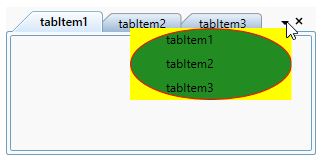
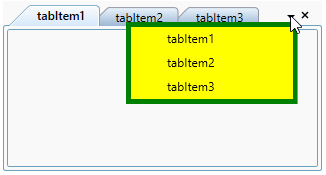
TabControlUG change and addressed the Incidents and forum fixes which are not addressed in the UG

diff --git a/wpf/TabControl/Selecting-tabitem.md b/wpf/TabControl/Selecting-tabitem.md
@@ -11,9 +11,9 @@ documentation: ug
 
 This section explains how to select tab item and selection functionalities in the [TabControl](https://help.syncfusion.com/cr/wpf/Syncfusion.Tools.Wpf~Syncfusion.Windows.Tools.Controls.TabControlExt.html).
 
-## Select tab item using mouse and key interaction
+## Select tab item using mouse or keyboard
 
-You can select a particular tab item by using the mouse click on the tab header. You also use the `Left-Arrow` and `Right-Arrow` key , to select the previous tab item or next tab item of current selected tab item. You can get the selected item by using the `SelectedItem` property. By default, the first tab item is selected.
+You can select a particular tab item by using the mouse click on the tab header. You can use the `Ctrl + Tab` key to select a next tab item when control not in focused state. You also use the `Left-Arrow` and `Right-Arrow` key , to select the previous tab item or next tab item of current selected tab item when control in focused state. You can get the selected item by using the `SelectedItem` property. By default, the first tab item is selected.
 
 N> You can select only one tab item at a time.
 
@@ -81,7 +81,37 @@ tabControlExt.IsDisableUnloadTabItemExtContent = true;
 
 N> View [Sample](https://github.com/SyncfusionExamples/syncfusion-wpf-tabcontrolext-examples/tree/master/Samples/SelectedItem) in GitHub
 
-## Change selected tab header font weight
+## Display mode of the selected tab item
+
+If you want to show tab items without its headers in the `TabControl`, use the [FullScreenMode](https://help.syncfusion.com/cr/wpf/Syncfusion.Tools.Wpf~Syncfusion.Windows.Tools.Controls.TabControlExt~FullScreenMode.html) property. If you set `FullScreenMode` property value as `ControlMode`, then it will auto hide headers and show it only on when hover the mouse on respective tab header placed area. You can also display the `TabControl` in the full window by setting the `FullScreenMode` property value as `WindowMode`. The default value of `FullScreenMode` property is `None`.
+
+{% tabs %}
+{% highlight XAML %}
+
+<syncfusion:TabControlExt FullScreenMode="ControlMode"
+                          TabStripPlacement="Bottom"
+                          Name="tabControlExt">
+    <syncfusion:TabItemExt Header="tabItem1" />
+    <syncfusion:TabItemExt Header="tabItem2" />
+    <syncfusion:TabItemExt Header="tabItem3" />
+</syncfusion:TabControlExt>
+
+{% endhighlight %}
+{% highlight C# %}
+
+tabControlExt.FullScreenMode = FullScreenMode.ControlMode;
+tabControlExt.TabStripPlacement = Dock.Bottom;
+
+{% endhighlight %}
+{% endtabs %}
+
+![Show the tab item without its header](Getting-Started_images/FullScreenMode.gif)
+
+## Customize selected tab item header
+
+You can change the selected tab item header font weight, background and foreground.
+
+### Change selected tab header font weight
 
 If you want to highlight the selected tab header, change the font of tab header from semi bold to extra bold by using the [SelectedItemFontWeight](https://help.syncfusion.com/cr/wpf/Syncfusion.Tools.Wpf~Syncfusion.Windows.Tools.Controls.TabControlExt~SelectedItemFontWeight.html) property. The default value of `SelectedItemFontWeight` property is `SemiBold`.
 
@@ -106,7 +136,7 @@ tabControlExt.SelectedItemFontWeight = FontWeights.ExtraBold;
 
 N> View [Sample](https://github.com/SyncfusionExamples/syncfusion-wpf-tabcontrolext-examples/tree/master/Samples/SelectedItem) in GitHub
 
-## Change selected tab header background and foreground 
+### Change selected tab header background and foreground 
 
 You can change the highlighting background and foreground of the selected tab item by using the [TabItemSelectedForeground](https://help.syncfusion.com/cr/wpf/Syncfusion.Tools.Wpf~Syncfusion.Windows.Tools.Controls.TabControlExt~TabItemSelectedForeground.html) and [TabItemSelectedBackground](https://help.syncfusion.com/cr/wpf/Syncfusion.Tools.Wpf~Syncfusion.Windows.Tools.Controls.TabControlExt~.html) properties. The default value of `TabItemSelectedForeground` property is `Black`  and `TabItemSelectedBackground` property is `Lavender`.
 
@@ -132,4 +162,3 @@ tabControlExt.TabItemSelectedBackground = Brushes.Green;
 ![TabControl SelectedItem background and foreground changed](Tab-Item-Header_images/SelectedItemBackground.png)
 
 N> View [Sample](https://github.com/SyncfusionExamples/syncfusion-wpf-tabcontrolext-examples/tree/master/Samples/SelectedItem) in GitHub
-

diff --git a/wpf/TabControl/Arrange-tabs.md b/wpf/TabControl/Arrange-tabs.md
@@ -153,21 +153,45 @@ tabControlExt.TabItemLayout = TabItemLayoutType.MultiLine;
 N> View [Sample](https://github.com/SyncfusionExamples/syncfusion-wpf-tabcontrolext-examples/tree/master/Samples/ArranageTabs) in GitHub
 
 
-## Navigate using mouse and keys interaction
+## Navigate using mouse or keyboard
 
-You can navigate from one tab to any other tab by using the mouse click on the tab header. You also use the `Left-Arrow` and `Right-Arrow` key or `F2` key or `Ctrl + F2` key , to navigate the previous tab item or next tab item from the current tab item.
+You can navigate from one tab to any other tab by using the mouse click on the tab header. You can use the `Ctrl + Tab` key to navigate to the next tab item when control not in focused state. You also use the `Left-Arrow` and `Right-Arrow` key, to navigate the previous tab item or next tab item from the current tab item.
 
 ![Tab items selected by clicking the tab header](Tab-Item-Header_images/SelectItem.gif)
 
 ## Navigate using scroll button
 
-If you add more tab items, then some tab headers are collapsed. If you navigate to the collapsed tab items, click the scroll button which is placed in the top-right corner of the tab header panel. You can auto visible or hide the scroll button by using the [TabScrollButtonVisibility](https://help.syncfusion.com/cr/wpf/Syncfusion.Tools.Wpf~Syncfusion.Windows.Tools.Controls.TabControlExt~TabScrollButtonVisibility.html) property value as `Auto` or `Hidden`. You can easily navigate to first or last or next or previous tab items by setting the [TabScrollStyle](https://help.syncfusion.com/cr/wpf/Syncfusion.Tools.Wpf~Syncfusion.Windows.Tools.Controls.TabControlExt~TabScrollStyle.html) property value as `Extended`, then it will show the `First`, `Last`, `Next`, `Previous` button options. The default value of the `TabScrollStyle` property is `Normal`.
+If you add more tab items, then some tab headers are collapsed. If you navigate to the collapsed tab items, click the scroll button which is placed in the top-right corner of the tab header panel. You can auto visible or hide the scroll button by using the [TabScrollButtonVisibility](https://help.syncfusion.com/cr/wpf/Syncfusion.Tools.Wpf~Syncfusion.Windows.Tools.Controls.TabControlExt~TabScrollButtonVisibility.html) property value as `Auto` or `Hidden`.
 
 The following `TabScrollStyle` supported by the `TabControl` control.
 
 * Extended Mode - Provides the Next, Previous, Last and First navigation options
 * Normal Mode – Provides the Next and Previous navigation options only
 
+
+{% tabs %}
+{% highlight XAML %}
+
+<syncfusion:TabControlExt TabScrollButtonVisibility="Auto"
+                          Width="300"
+                          Name="tabControlExt">
+    <syncfusion:TabItemExt Header="tabItem1" />
+    <syncfusion:TabItemExt Header="tabItem2" />
+</syncfusion:TabControlExt>
+
+{% endhighlight %}
+{% highlight C# %}
+
+tabControlExt.TabScrollButtonVisibility = TabScrollButtonVisibility.Auto;
+
+{% endhighlight %}
+{% endtabs %}
+
+![Tab items navigate by using the scroll buttons](Tab-Item-Header_images/TabScrollButtonVisibility1.png)
+
+### Navigate using scroll button in extended mode
+
+You can easily navigate to first or last or next or previous tab items by setting the [TabScrollStyle](https://help.syncfusion.com/cr/wpf/Syncfusion.Tools.Wpf~Syncfusion.Windows.Tools.Controls.TabControlExt~TabScrollStyle.html) property value as `Extended`, then it will show the `First`, `Last`, `Next`, `Previous` button options in the scroll button. The default value of the `TabScrollStyle` property is `Normal`.
 
 {% tabs %}
 {% highlight XAML %}
@@ -183,7 +207,6 @@ The following `TabScrollStyle` supported by the `TabControl` control.
 {% endhighlight %}
 {% highlight C# %}
 
-tabControlExt.TabScrollButtonVisibility = TabScrollButtonVisibility.Auto;
 tabControlExt.TabScrollStyle = TabScrollStyle.Extended;
 
 {% endhighlight %}

diff --git a/wpf/TabControl/ContextMenu.md b/wpf/TabControl/ContextMenu.md
@@ -129,9 +129,9 @@ tabItemExt1.ContextMenuItems.Add(customMenuItem);
 
 N> View [Sample](https://github.com/SyncfusionExamples/syncfusion-wpf-tabcontrolext-examples/tree/master/Samples/ContextMenu) in GitHub
 
-### Show only custom context menu items
+### Hide default context menu items
 
-If you want to show only custom context menu items in the default context menu, then you can collapse the default context menu item using [TabControlExt.DefaultContextMenuItemVisibility](https://help.syncfusion.com/cr/wpf/Syncfusion.Tools.Wpf~Syncfusion.Windows.Tools.Controls.TabControlExt~DefaultContextMenuItemVisibility.html) property value as `false`. The default value of `TabControlExt.DefaultContextMenuItemVisibility` property is `true`.
+If you want to show only custom context menu items in the default context menu, then you can hide the default context menu item using [TabControlExt.DefaultContextMenuItemVisibility](https://help.syncfusion.com/cr/wpf/Syncfusion.Tools.Wpf~Syncfusion.Windows.Tools.Controls.TabControlExt~DefaultContextMenuItemVisibility.html) property value as `false`. The default value of `TabControlExt.DefaultContextMenuItemVisibility` property is `true`.
 
 {% tabs %}
 {% highlight XAML %}
@@ -170,7 +170,7 @@ tabItemExt1.ContextMenuItems.Add(customMenuItem3);
 
 N> View [Sample](https://github.com/SyncfusionExamples/syncfusion-wpf-tabcontrolext-examples/tree/master/Samples/ContextMenu) in GitHub
 
-### Custom UI for default tab item context menu
+### Custom template for default tab item context menu
 
 You can customize the default tab item context menu appearance for the each tab items by using the [TabItemExt.TabItemContextMenuItemTemplate](https://help.syncfusion.com/cr/wpf/Syncfusion.Tools.Wpf~Syncfusion.Windows.Tools.Controls.TabItemExt~TabItemContextMenuItemTemplate.html) property.
 
@@ -231,7 +231,7 @@ tabControlExt.ShowTabListContextMenu = true;
 
 N> View [Sample](https://github.com/SyncfusionExamples/syncfusion-wpf-tabcontrolext-examples/tree/master/Samples/ContextMenu) in GitHub
 
-### Custom UI for tab list menu
+### Custom template for the tab list menu
 
 You can customize the tab list menu appearance by using the [TabListContextMenuTemplate](https://help.syncfusion.com/cr/wpf/Syncfusion.Tools.Wpf~Syncfusion.Windows.Tools.Controls.TabControlExt~TabListContextMenuTemplate.html ) property.
 
@@ -242,16 +242,19 @@ You can customize the tab list menu appearance by using the [TabListContextMenuT
                           Name="tabControlExt" >
     <syncfusion:TabControlExt.TabListContextMenuTemplate>
         <ControlTemplate>
-            <Border Background="Yellow">
-                <Grid>
-                    <Ellipse Fill="ForestGreen" Stroke="Red"/>
-                    <ItemsPresenter></ItemsPresenter>
-                </Grid>
+            <Border Background="Green">
+                <Border Background="Yellow"
+                        Margin="5">
+                    <Grid>
+                        <ItemsPresenter/>
+                    </Grid>
+                </Border>
             </Border>
         </ControlTemplate>
     </syncfusion:TabControlExt.TabListContextMenuTemplate>
     <syncfusion:TabItemExt Header="tabItem1"/>
     <syncfusion:TabItemExt Header="tabItem2"/>
+    <syncfusion:TabItemExt Header="tabItem3"/>
 </syncfusion:TabControlExt>
 
 {% endhighlight %}
@@ -259,7 +262,7 @@ You can customize the tab list menu appearance by using the [TabListContextMenuT
 
 ![Customize the tab list context menu](Contextmenu_images/wpf-tabcontrol-style5.png)
 
-### Custom UI for tab list menu item
+### Custom template for the tab list menu item
 
 You can customize the tab list menu items appearance by using the [TabListContextMenuItemTemplate](https://help.syncfusion.com/cr/wpf/Syncfusion.Tools.Wpf~Syncfusion.Windows.Tools.Controls.TabControlExt~TabListContextMenuItemTemplate.html ) property.
 

diff --git a/wpf/TabControl/Getting-Started.md b/wpf/TabControl/Getting-Started.md
@@ -188,35 +188,9 @@ tabControlExt.TabStripPlacement = Dock.Bottom;
 
 N> View [Sample](https://github.com/SyncfusionExamples/syncfusion-wpf-tabcontrolext-examples/tree/master/Samples/Tabs%20Placement) in GitHub
 
-## Display mode of the TabControl
-
-If you want to show tab items without its headers in the `TabControl`, use the [FullScreenMode](https://help.syncfusion.com/cr/wpf/Syncfusion.Tools.Wpf~Syncfusion.Windows.Tools.Controls.TabControlExt~FullScreenMode.html) property. If you set `FullScreenMode` property value as `ControlMode`, then it will auto hide headers and show it only on when hover the mouse on respective tab header placed area. You can also display the `TabControl` in the full window by setting the `FullScreenMode` property value as `WindowMode`. The default value of `FullScreenMode` property is `None`.
-
-{% tabs %}
-{% highlight XAML %}
-
-<syncfusion:TabControlExt FullScreenMode="ControlMode"
-                          TabStripPlacement="Bottom"
-                          Name="tabControlExt">
-    <syncfusion:TabItemExt Header="tabItem1" />
-    <syncfusion:TabItemExt Header="tabItem2" />
-    <syncfusion:TabItemExt Header="tabItem3" />
-</syncfusion:TabControlExt>
-
-{% endhighlight %}
-{% highlight C# %}
-
-tabControlExt.FullScreenMode = FullScreenMode.ControlMode;
-tabControlExt.TabStripPlacement = Dock.Bottom;
-
-{% endhighlight %}
-{% endtabs %}
-
-![Show the tab item without its header](Getting-Started_images/FullScreenMode.gif)
-
 ## Selecting TabItem
 
-You can select a particular tab item by using the mouse click on the tab header. You also use the `Left-Arrow` and `Right-Arrow` key , to select the previous tab item or next tab item of current selected tab item. You can get the selected item by using the `SelectedItem` property. By default, the first tab item is selected.
+You can select a particular tab item by using the mouse click on the tab header. You can use the `Ctrl + Tab` key to select a tab item when control not in focused state. You also use the `Left-Arrow` and `Right-Arrow` key , to select the previous tab item or next tab item of current selected tab item when control in focused . You can get the selected item by using the `SelectedItem` property. By default, the first tab item is selected.
 
 N> You can select only one tab item at a time.
 
@@ -261,7 +235,7 @@ private void TabControlExt_SelectedItemChangedEvent(object sender, SelectedItemC
 {% endhighlight %}
 {% endtabs %}
 
-## Working with tab close button
+## Closing the tab item
 
 `TabControl` allows end-users to close the tabs using close button. The close button can be displayed in `Tabcontrol` using [TabControlExt.CloseButtonType](https://help.syncfusion.com/cr/wpf/Syncfusion.Tools.Wpf~Syncfusion.Windows.Tools.Controls.TabControlExt~CloseButtonType.html) property. 
 The following options are supported to show close the button in `TabControl`.

diff --git a/wpf/TabControl/TabItem-Header.md b/wpf/TabControl/TabItem-Header.md
@@ -47,7 +47,7 @@ tabControlExt.Items.Add(tabItemExt3);
 
 ## Edit tab item header at runtime
 
-You can edit the text of the tab header at runtime by double clicking the tab header or selected a tab and pressing `F2` or `Ctrl + F2` key. You can restrict this editing by using the [EnableLabelEdit](https://help.syncfusion.com/cr/wpf/Syncfusion.Tools.Wpf~Syncfusion.Windows.Tools.Controls.TabControlExt~EnableLabelEdit.html) property value as `false`. The default value of `EnableLabelEdit` property is `true`.
+You can edit the text of the tab header at runtime by double clicking the tab header or selected a tab and pressing `Ctrl + F2` key. You can restrict this editing by using the [EnableLabelEdit](https://help.syncfusion.com/cr/wpf/Syncfusion.Tools.Wpf~Syncfusion.Windows.Tools.Controls.TabControlExt~EnableLabelEdit.html) property value as `false`. The default value of `EnableLabelEdit` property is `true`.
 
 {% tabs %}
 {% highlight xaml %}
@@ -74,7 +74,7 @@ N> View [Sample](https://github.com/SyncfusionExamples/syncfusion-wpf-tabcontrol
 
 You can customize the editing tab item header appearance for the each tab items by using the [EditHeaderTemplate](https://help.syncfusion.com/cr/wpf/Syncfusion.Tools.Wpf~Syncfusion.Windows.Tools.Controls.TabControlExt~EditHeaderTemplate.html) property.
 
-Please refer [Custom UI for the edit tab item header](https://help.syncfusion.com/wpf/tabcontrol/databinding#custom-ui-for-the-edit-tab-item-header) topic to know more details about `EditHeaderTemplate`.
+Please refer [Editing tab header](https://help.syncfusion.com/wpf/tabcontrol/databinding#editing-tab-header) topic to know more details about `EditHeaderTemplate`.
 
 N> View [Sample](https://github.com/SyncfusionExamples/syncfusion-wpf-tabcontrolext-examples/tree/master/Samples/Databinding) in GitHub
 
@@ -241,6 +241,10 @@ tabControlExt.HideHeaderOnSingleChild = true;
 ![TabControl contains single item without tab header](Tab-Item-Header_images/NoTabheader.png)
 
 N> View [Sample](https://github.com/SyncfusionExamples/syncfusion-wpf-tabcontrolext-examples/tree/master/Samples/Tab-Header) in GitHub
+
+## Customize tab item header
+
+You can change the tab item header background and foreground.
 
 ## Change tab item background
 

diff --git a/wpf/DateTimePicker/Keyboard-Navigation-support.md b/wpf/DateTimePicker/Keyboard-Navigation-support.md
@@ -70,28 +70,28 @@ The following table explains how the navigation performed between datetime field
 </tr>
 <tr>
 <td>7</td>
-<td>Func + PageUp</td>
+<td>PageUp</td>
 <td>Move to previous month, date or year from the corresponding selection view.</td>
 <td>
 <img src="Keyboard_navigation_images/FuncUp.png" alt="Navigate to previous date or month or year"/></td>
 </tr>
 <tr>
 <td>8</td>
-<td>Func + PageDown</td>
+<td>PageDown</td>
 <td>Move to next month, date or year from the corresponding selection view.</td>
 <td>
 <img src="Keyboard_navigation_images/FuncDown.png" alt="Navigate to next date or month or year"/></td>
 </tr>
 <tr>
 <td>9</td>
-<td>Func + Home</td>
+<td>Home</td>
 <td>Select first date or month or year or decade of the current selection view.</td>
 <td>
 <img src="Keyboard_navigation_images/FuncHome.png" alt="Navigate to first date or month or year"/></td>
 </tr>
 <tr>
 <td>10</td>
-<td>Func + End</td>
+<td>End</td>
 <td>Select last date or month or year or decade of the current selection view.</td>
 <td>
 <img src="Keyboard_navigation_images/FuncEnd.png" alt="Navigate to last date or month or year"/></td>

diff --git a/wpf/TabControl/DataBinding.md b/wpf/TabControl/DataBinding.md
@@ -194,9 +194,9 @@ You can define the tab item content using `ContentTemplate` property. Otherwise,
 
 ![Added content to tabitem in WPF TabControl](Databinding_images/wpf-tabcontrol-binding_content.png)
 
-## Custom UI for the edit tab item header
+##  Editing tab header
 
-You can customize the editing tab item header appearance for the each tab items by using the [EditHeaderTemplate](https://help.syncfusion.com/cr/wpf/Syncfusion.Tools.Wpf~Syncfusion.Windows.Tools.Controls.TabControlExt~EditHeaderTemplate.html) property.
+By default, built-in `TextBox` is used as editor for the tab item header editing. You can customize the editing tab item header appearance for the each tab items by using the [EditHeaderTemplate](https://help.syncfusion.com/cr/wpf/Syncfusion.Tools.Wpf~Syncfusion.Windows.Tools.Controls.TabControlExt~EditHeaderTemplate.html) property.
 
 {% tabs %}
 {% highlight XAML %}

diff --git a/wpf/TabControl/NewButton-Feature.md b/wpf/TabControl/NewButton-Feature.md
@@ -84,7 +84,7 @@ tabControlExt.IsNewButtonClosedonNoChild = false;
 
 N> View [Sample](https://github.com/SyncfusionExamples/syncfusion-wpf-tabcontrolext-examples/tree/master/Samples/NewButton) in GitHub
 
-## Custom UI for new button
+## Custom template for the new button
 
 If you wants to change the UI for the new button, use the [NewButtonTemplate](https://help.syncfusion.com/cr/wpf/Syncfusion.Tools.Wpf~Syncfusion.Windows.Tools.Controls.TabControlExt~NewButtonTemplate.html) or [NewButtonStyle](https://help.syncfusion.com/cr/wpf/Syncfusion.Tools.Wpf~Syncfusion.Windows.Tools.Controls.TabControlExt~NewButtonStyle.html)  properties. 
 

diff --git a/wpf/Docking/Dealing-with-Windows.md b/wpf/Docking/Dealing-with-Windows.md
@@ -420,7 +420,7 @@ Grid1.Children.Add(dockingmanager)
 
 {% endtabs %}
 
-## Detect the adding and removing docking child in DockingManager
+## Event to notify when a child is added or removed
 
 If you want to know while docking child added or removed from the `DockingManager`, it can be notified by using the [ChildrenCollectionChanged](https://help.syncfusion.com/cr/wpf/Syncfusion.Tools.Wpf~Syncfusion.Windows.Tools.Controls.DockingManager~ChildrenCollectionChanged_EV.html) event. It receives an argument of type `NotifyCollectionChangedEventArgs` containing the following information about the event.
 
